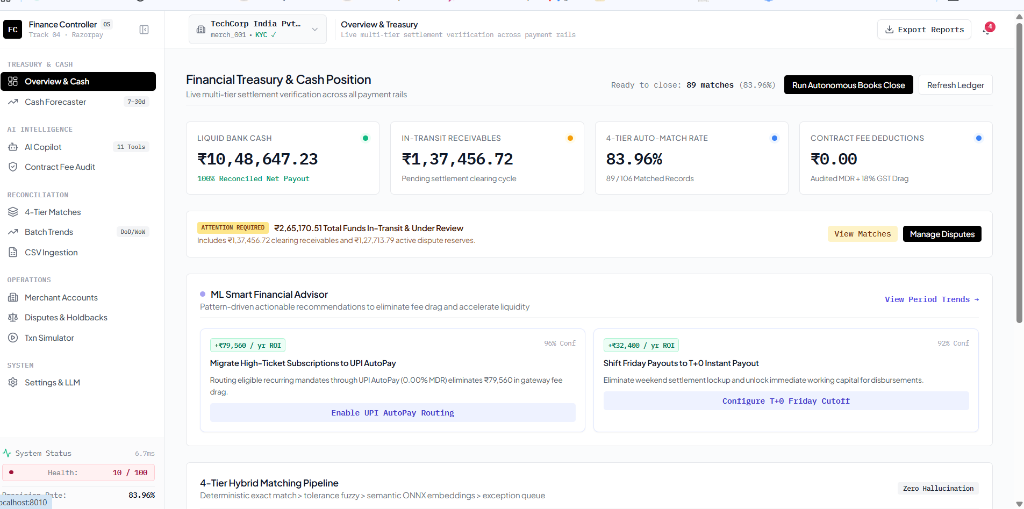
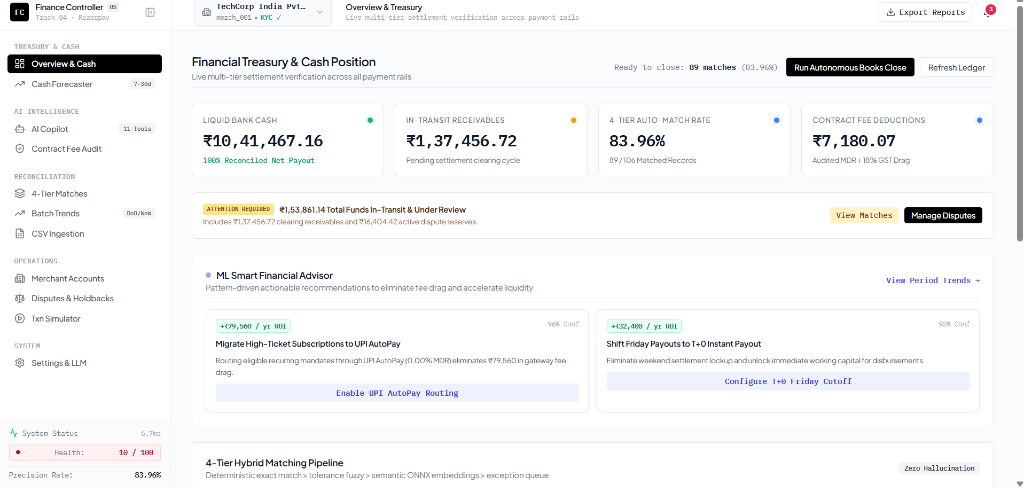
docs: add real UI screenshots to README visual tour

diff --git a/README.md b/README.md
@@ -1,4 +1,4 @@
-# Autonomous Razorpay AI Finance Controller OS
+# Autonomous Razorpay AI Finance Controller OS
 ### Track 04: AI Finance Controller — Razorpay AI Buildathon 2026
 
 [![Python 3.11+](https://img.shields.io/badge/python-3.11+-blue.svg)](https://www.python.org/downloads/)
@@ -19,6 +19,22 @@
 In enterprise finance operations, **verification capacity, not generation speed, is the bottleneck.** Financial operations cannot guess on money. A single fabricated transaction ID or an unverified deduction creates balance sheet discrepancies, breaks tax compliance, and corrupts the general ledger.
 
 The **Autonomous Razorpay AI Finance Controller OS** is an end-to-end treasury and reconciliation platform designed to close the finance-ops loop across messy real-world transaction batches. It combines a deterministic 4-tier matching cascade, automated MDR fee deduction analysis, forward liquidity forecasting, and a mathematically grounded conversational agent.
+
+---
+
+## Platform Interface & Visual Tour
+
+### 1. Financial Treasury & Live Cash Position (`/`)
+Live multi-tier settlement verification across payment rails with real-time liquidity visibility, MDR fee drag tracking, and actionable ML Smart Financial Advisor recommendations:
+![Financial Treasury & Cash Position](assets/screenshots/overview_dashboard.png)
+
+### 2. Forward Cash Forecaster & RBI Bank Holiday Clearing (`/forecast`)
+7 to 30-day forward daily liquidity projections factoring in RBI banking holidays and Sunday bank clearing network pauses:
+![Forward Cash Forecaster](assets/screenshots/cash_forecaster.png)
+
+### 3. Autonomous AI Copilot & Armed MCP Tools (`/chat`)
+Full-context conversational copilot with sub-millisecond audit fast-paths, in-chat CSV reconciliation, and direct access to 11 live Model Context Protocol (MCP) tools:
+![AI Copilot Assistant & Armed MCP Tools](assets/screenshots/ai_copilot_tools.png)
 
 ---
 
